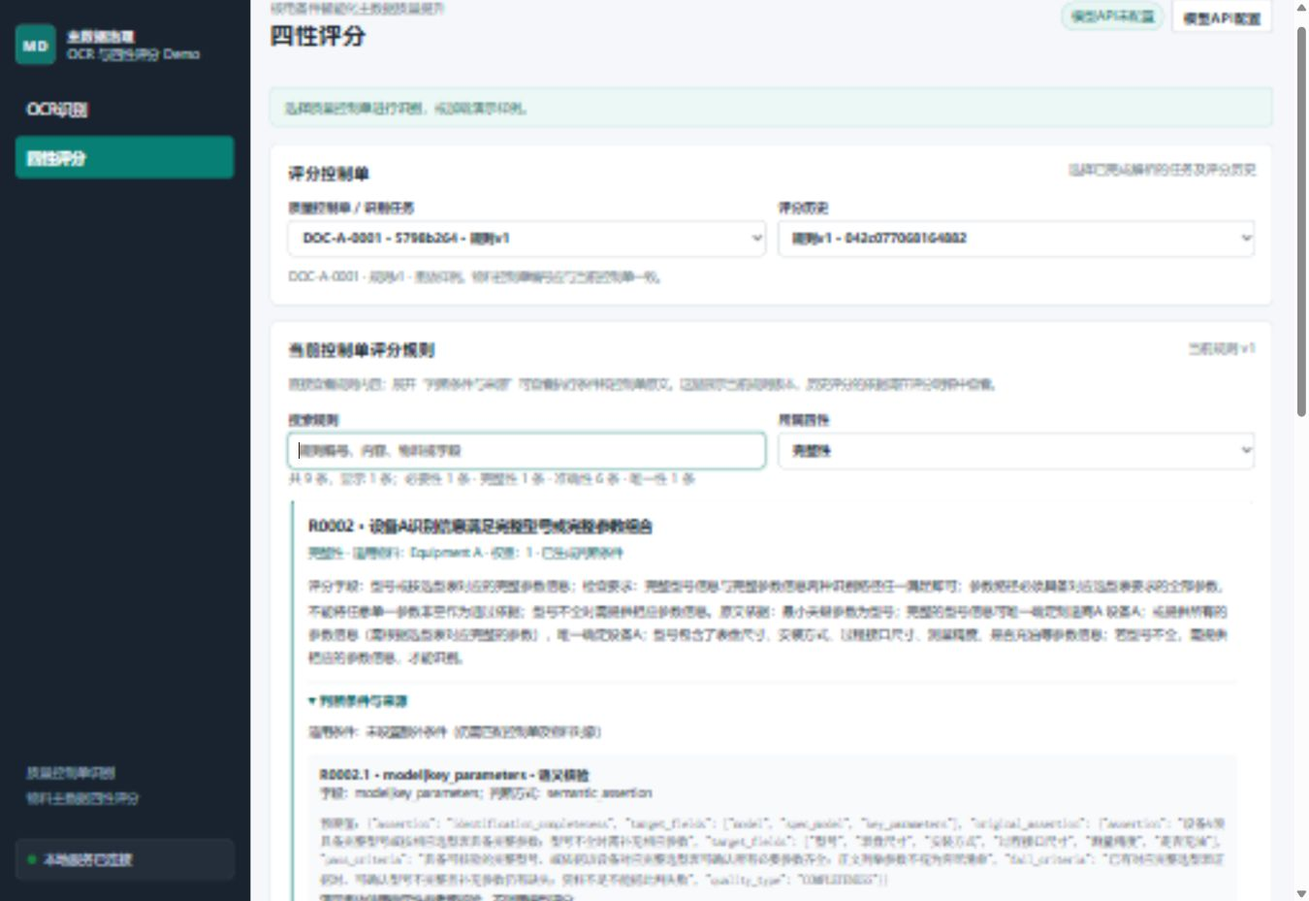
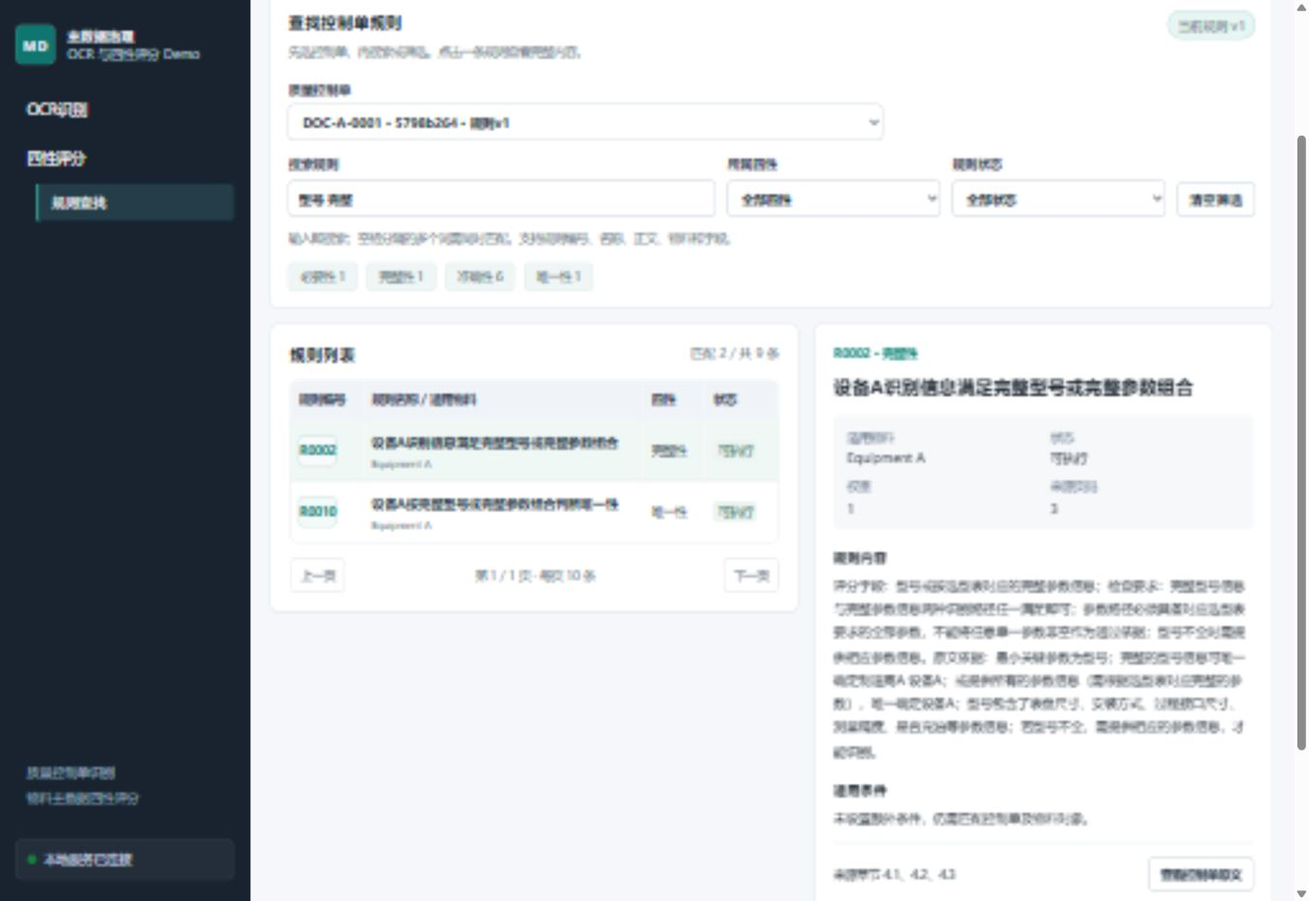
Move rule lookup into a scoring subpage with table and detail layout

diff --git a/src/mqc_qcr/static/app.js b/src/mqc_qcr/static/app.js
@@ -3,6 +3,8 @@ let active = null, current = null, results = [], pages = [], preview = '';
 let selectedArtifact = '', inputMode = 'single', polling = false, configDirty = false;
 let publicConfig = null, loadedScore = '', previousScoreCount = 0;
 let visibleRules = [], visibleChecks = [], loadedRules = '';
+let selectedRuleId = '', rulePage = 1;
+const rulePageSize = 10;
 const dimensions = ['necessity', 'completeness', 'accuracy', 'uniqueness', 'final'];
 const qualityLabels = {NECESSITY:'必要性', COMPLETENESS:'完整性', ACCURACY:'准确性', UNIQUENESS:'唯一性'};
 const states = {queued:'排队中', running:'处理中', completed:'已完成', failed:'失败', interrupted:'已中断'};
@@ -30,15 +32,21 @@ function action(id, fn) {
   });
 }
 function setView(view) {
+  if (!['ocr','score','rules'].includes(view)) view = 'ocr';
   for (const node of document.querySelectorAll('.view')) node.classList.toggle('active', node.id === 'view-' + view);
-  for (const button of document.querySelectorAll('.nav-item[data-view]')) {
+  for (const button of document.querySelectorAll('.nav-list [data-view]')) {
     const selected = button.dataset.view === view;
     button.classList.toggle('active', selected);
     if (selected) button.setAttribute('aria-current', 'page'); else button.removeAttribute('aria-current');
   }
-  $('page-title').textContent = view === 'ocr' ? 'OCR识别' : '四性评分';
+  $('page-title').textContent = {ocr:'OCR识别',score:'四性评分',rules:'四性评分 / 规则查找'}[view];
+  if (location.hash !== '#' + view) location.hash = view;
 }
-for (const button of document.querySelectorAll('.nav-item[data-view]')) button.onclick = () => setView(button.dataset.view);
+for (const button of document.querySelectorAll('.nav-list [data-view], [data-open-view]')) button.onclick = () => {
+  setView(button.dataset.view || button.dataset.openView); window.scrollTo({top:0});
+};
+window.addEventListener('hashchange', () => setView(location.hash.slice(1)));
+setView(location.hash.slice(1));
 function setInputMode(mode) {
   inputMode = mode;
   $('single-input').hidden = mode !== 'single';
@@ -118,7 +126,9 @@ action('go-score', () => {
   window.scrollTo({top:0, behavior:'smooth'});
 });
 function clearRunViews() {
-  visibleRules = []; visibleChecks = []; loadedRules = ''; renderRuleBrowsers();
+  visibleRules = []; visibleChecks = []; loadedRules = ''; selectedRuleId = ''; rulePage = 1;
+  $('rules-search').value = ''; $('rules-quality').value = ''; $('rules-status').value = '';
+  renderRuleBrowsers();
   current = null; results = []; pages = []; loadedScore = ''; previousScoreCount = 0;
   selectedArtifact = ''; $('details').replaceChildren();
   $('score-history').replaceChildren(new Option('暂无评分', ''));
@@ -135,6 +145,7 @@ async function refresh() {
   const data = await api('/api/runs');
   $('runs').replaceChildren();
   $('score-run').replaceChildren(new Option('请选择已解析的控制单', ''));
+  $('rules-run').replaceChildren(new Option('请选择已解析的控制单', ''));
   for (const run of data.runs) {
     const button = document.createElement('button');
     button.className = 'run' + (active === run.id ? ' selected' : '');
@@ -144,7 +155,7 @@ async function refresh() {
     button.append(meta);
     button.onclick = () => selectRun(run.id).catch(e => message(e.message, true));
     $('runs').append(button);
-    if (run.revision) $('score-run').add(new Option(`${run.document_id} · ${run.id.slice(0,8)} · 规则v${run.revision}`, run.id));
+    if (run.revision) for (const id of ['score-run','rules-run']) $(id).add(new Option(`${run.document_id} · ${run.id.slice(0,8)} · 规则v${run.revision}`, run.id));
   }
   if (!data.runs.length) {
     const p = document.createElement('p'); p.className = 'empty-state'; p.textContent = '尚未创建质量单解析任务'; $('runs').append(p);
@@ -152,11 +163,11 @@ async function refresh() {
   if (active) await loadRun();
 }
 action('refresh', refresh);
-$('score-run').addEventListener('change', async () => {
+for (const selector of ['score-run','rules-run']) $(selector).addEventListener('change', async () => {
   try {
-    const id = $('score-run').value;
+    const id = $(selector).value;
     if (id) await selectRun(id);
-    else { active = null; clearRunViews(); $('score-run-note').textContent = '请选择已解析的控制单。'; }
+    else { active = null; clearRunViews(); $('score-run').value = ''; $('rules-run').value = ''; $('score-run-note').textContent = '请选择已解析的控制单。'; }
   } catch (e) { message(e.message, true); }
 });
 async function loadRun() {
@@ -170,6 +181,7 @@ async function loadRun() {
   $('meta-revision').textContent = run.revision ? 'v' + run.revision : '等待生成';
   $('run-state').textContent = `任务：${run.id} · ${states[run.status] || run.status}`;
   $('score-run').value = run.revision ? rid : '';
+  $('rules-run').value = run.revision ? rid : '';
   $('score-run-note').textContent = `${run.document_id} · 规则v${run.revision} · ${run.mode === 'replay' ? '重放样例' : '模型识别'}。物料控制单编号应与当前控制单一致。`;
   if (run.status === 'failed') message(run.error?.message || '处理失败，请查看阶段错误JSON。', true);
   if (run.revision && run.artifacts.includes(`dsl-v${run.revision}.json`)) await loadVisibleRules();
@@ -350,43 +362,81 @@ function ruleText(tag, value, className = '') {
 function checksForRule(rule) {
   return visibleChecks.filter(check => (check.rule_key || check.source_rule_id) === rule.id);
 }
+function ruleStatus(rule) {
+  const checks = checksForRule(rule);
+  return !rule.enabled ? 'disabled' : !checks.length || checks.some(c => c.operator === 'UNKNOWN' || c.execution_status === 'pending_review') ? 'pending' : 'ready';
+}
+const ruleStatusLabels = {ready:'可执行', pending:'待核实', disabled:'已停用'};
 function renderRuleBrowsers() {
-  for (const prefix of ['ocr','score']) {
-    const list = $(prefix+'-rules-list'); list.replaceChildren();
-    $(prefix+'-rules-version').textContent = loadedRules ? `当前规则 v${loadedRules.split('/')[1]}` : '等待规则生成';
-    const term = $(prefix+'-rules-search').value.trim().toLowerCase(), quality = $(prefix+'-rules-quality').value;
-    const filtered = visibleRules.filter(rule => (!quality || rule.quality_type === quality) && JSON.stringify(rule).concat(JSON.stringify(checksForRule(rule))).toLowerCase().includes(term));
-    const counts = Object.entries(qualityLabels).map(([key,label]) => `${label} ${visibleRules.filter(r => r.quality_type === key).length} 条`).join(' · ');
-    $(prefix+'-rules-summary').textContent = loadedRules ? `共 ${visibleRules.length} 条，显示 ${filtered.length} 条；${counts}` : '选择已解析的控制单后自动显示规则';
-    if (!filtered.length) list.append(ruleText('p', loadedRules ? '没有符合条件的规则' : '暂无规则', 'empty-state'));
-    for (const rule of filtered) {
-      const card = document.createElement('article'); card.className = 'rule-card';
-      const heading = ruleText('h3', `${rule.id} · ${rule.rule_title}`);
-      const checks = checksForRule(rule);
-      const status = !rule.enabled ? '已停用' : !checks.length || checks.some(c => c.operator === 'UNKNOWN') ? '待核实' : '已生成判断条件';
-      card.append(heading, ruleText('p', `${qualityLabels[rule.quality_type] || '待确认分类'} · 适用物料：${rule.material_entity || '未指定'} · 权重：${rule.weight} · ${status}`, 'rule-meta'), ruleText('p', rule.rule_text, 'rule-content'));
-      const detail = document.createElement('details'); detail.className = 'rule-conditions';
-      detail.append(ruleText('summary','判断条件与来源'),ruleText('p',`适用条件：${rule.condition_text || '未设置额外条件（仍需匹配控制单及物料对象）'}`));
-      if (!checks.length) detail.append(ruleText('p',rule.enabled ? '暂无执行条件，需完成编译后核验。' : '规则已停用，不参与当前评分。'));
-      for (const check of checks) {
-        const box = document.createElement('div'); box.className = 'rule-check';
-        const expected = typeof check.expected_value === 'object' ? JSON.stringify(check.expected_value,null,2) : String(check.expected_value ?? '');
-        box.append(ruleText('strong',`${check.dsl_id} · ${fieldLabels[check.field_name] || check.field_name} · ${operatorLabels[check.operator] || check.operator}`),ruleText('p',`字段：${check.field_name}；判断方式：${check.operator}`),ruleText('pre',`预期值：${expected || '未设置'}`));
-        if (check.offline_handler) box.append(ruleText('p','演示重放使用确定性参考库核验，不调用模型评分。'));
-        if (check.semantic) box.append(ruleText('p',check.semantic));
-        detail.append(box);
-      }
-      detail.append(ruleText('p',`来源章节：${rule.source_sections.join('、') || '未标注'}；页码：${rule.source_pages.join('、') || '未标注'}`));
-      const button = ruleText('button','查看控制单原文','secondary-btn');
-      button.onclick = () => showSource({...rule,source_text:rule.rule_text}); detail.append(button);
-      card.append(detail); list.append(card);
-    }
+  const tokens = $('rules-search').value.trim().toLowerCase().split(/\s+/).filter(Boolean);
+  const quality = $('rules-quality').value, status = $('rules-status').value;
+  const filtered = visibleRules.filter(rule => {
+    const checks = checksForRule(rule);
+    const haystack = [rule.id,rule.rule_title,rule.rule_text,rule.material_entity,rule.condition_text,qualityLabels[rule.quality_type],...checks.flatMap(c => [c.field_name,fieldLabels[c.field_name],c.operator,operatorLabels[c.operator],JSON.stringify(c.expected_value)])].join(' ').toLowerCase();
+    return (!quality || rule.quality_type === quality) && (!status || ruleStatus(rule) === status) && tokens.every(term => haystack.includes(term));
+  });
+  $('rules-version').textContent = loadedRules ? `当前规则 v${loadedRules.split('/')[1]}` : '等待规则生成';
+  $('rules-counts').replaceChildren(...Object.entries(qualityLabels).map(([key,label]) => ruleText('span',`${label} ${visibleRules.filter(r => r.quality_type === key).length}`, 'rule-count')));
+  $('rules-summary').textContent = loadedRules ? `匹配 ${filtered.length} / 共 ${visibleRules.length} 条` : '请选择已解析的控制单';
+  const pageCount = Math.ceil(filtered.length / rulePageSize);
+  rulePage = Math.max(1, Math.min(rulePage,pageCount));
+  const pageRules = filtered.slice((rulePage-1)*rulePageSize, rulePage*rulePageSize);
+  if (!pageRules.some(rule => rule.id === selectedRuleId)) selectedRuleId = pageRules[0]?.id || '';
+  const body = $('rules-table').querySelector('tbody'); body.replaceChildren();
+  for (const rule of pageRules) {
+    const row = document.createElement('tr'); row.className = rule.id === selectedRuleId ? 'selected-rule' : '';
+    const idCell = document.createElement('td'), button = ruleText('button',rule.id,'text-btn');
+    button.setAttribute('aria-label',`查看规则 ${rule.id}`); button.setAttribute('aria-pressed',String(rule.id === selectedRuleId));
+    const select = () => {
+      selectedRuleId = rule.id; renderRuleBrowsers();
+      $('rules-table').querySelector('[aria-pressed="true"]').focus({preventScroll:true});
+      if (window.matchMedia('(max-width:1100px)').matches) $('rule-detail').scrollIntoView({behavior:'smooth',block:'start'});
+    };
+    button.onclick = event => { event.stopPropagation(); select(); };
+    row.onclick = select; idCell.append(button);
+    const nameCell = document.createElement('td'); nameCell.append(ruleText('strong',rule.rule_title),ruleText('small',rule.material_entity || '未指定物料'));
+    const stateCell = document.createElement('td'); stateCell.append(ruleText('span',ruleStatusLabels[ruleStatus(rule)],'rule-state '+ruleStatus(rule)));
+    row.append(idCell,nameCell,ruleText('td',qualityLabels[rule.quality_type] || '待确认'),stateCell); body.append(row);
   }
+  if (!pageRules.length) {
+    const row = document.createElement('tr'), cell = ruleText('td',loadedRules ? '没有匹配的规则，请更换关键词或清空筛选。' : '请先选择已解析的控制单。','empty-state'); cell.colSpan=4; row.append(cell); body.append(row);
+  }
+  $('rules-page').textContent = `第 ${pageCount ? rulePage : 0} / ${pageCount} 页 · 每页 ${rulePageSize} 条`;
+  $('rules-prev').disabled = rulePage <= 1; $('rules-next').disabled = rulePage >= pageCount;
+  renderRuleDetail(pageRules.find(rule => rule.id === selectedRuleId));
 }
-for (const prefix of ['ocr','score']) {
-  $(prefix+'-rules-search').addEventListener('input',renderRuleBrowsers);
-  $(prefix+'-rules-quality').addEventListener('change',renderRuleBrowsers);
+function renderRuleDetail(rule) {
+  const detail = $('rule-detail'); detail.replaceChildren();
+  if (!rule) { detail.append(ruleText('p',loadedRules ? '暂无匹配规则' : '选择控制单后，点击列表查看规则详情','empty-state')); return; }
+  detail.append(ruleText('span',`${rule.id} · ${qualityLabels[rule.quality_type]}`,'rule-detail-kicker'),ruleText('h2',rule.rule_title));
+  const meta = document.createElement('dl'); meta.className='rule-detail-meta';
+  for (const [label,value] of [['适用物料',rule.material_entity || '未指定'],['状态',ruleStatusLabels[ruleStatus(rule)]],['权重',rule.weight],['来源页码',rule.source_pages.join('、')]]) {
+    const group = document.createElement('div'); group.append(ruleText('dt',label),ruleText('dd',value));meta.append(group);
+  }
+  detail.append(meta,ruleText('h3','规则内容'),ruleText('p',rule.rule_text,'rule-content'),ruleText('h3','适用条件'),ruleText('p',rule.condition_text || '未设置额外条件，仍需匹配控制单及物料对象。','rule-content'));
+  const source = document.createElement('div'); source.className = 'rule-source-bar';
+  const sourceButton = ruleText('button','查看控制单原文','secondary-btn'); sourceButton.onclick = () => showSource({...rule,source_text:rule.rule_text});
+  source.append(ruleText('span',`来源章节 ${rule.source_sections.join('、')}`),sourceButton); detail.append(source);
+  const checks = checksForRule(rule), execution = document.createElement('details'); execution.className='rule-conditions';
+  execution.append(ruleText('summary',`判断条件（${checks.length} 项）`));
+  if (!checks.length) execution.append(ruleText('p',rule.enabled ? '暂无执行条件，需完成编译后核验。' : '已停用，不参与评分。'));
+  for (const check of checks) {
+    const box = document.createElement('div'); box.className='rule-check';
+    let expected = check.expected_value;
+    if (typeof expected === 'string') { try { expected = JSON.parse(expected); } catch {} }
+    const value = typeof expected === 'object' ? JSON.stringify(expected,null,2) : String(expected ?? '');
+    box.append(ruleText('strong',`${check.dsl_id} · ${fieldLabels[check.field_name] || check.field_name} · ${operatorLabels[check.operator] || check.operator}`),ruleText('p',`字段：${check.field_name}；判断方式：${check.operator}`),ruleText('pre',`预期值：${value || '未设置'}`));
+    if (check.offline_handler) box.append(ruleText('p','演示重放使用确定性参考库核验，不调用模型评分。'));
+    if (check.semantic) box.append(ruleText('p',check.semantic)); execution.append(box);
+  }
+  detail.append(execution);
 }
+for (const [id,event] of [['rules-search','input'],['rules-quality','change'],['rules-status','change']]) $(id).addEventListener(event,() => { rulePage=1; renderRuleBrowsers(); });
+$('rules-reset').onclick = () => { $('rules-search').value=''; $('rules-quality').value=''; $('rules-status').value=''; rulePage=1; renderRuleBrowsers(); };
+$('rules-prev').onclick = () => { rulePage--; renderRuleBrowsers(); };
+$('rules-next').onclick = () => { rulePage++; renderRuleBrowsers(); };
+renderRuleBrowsers();
+
 action('load-rules', async () => {
   if (!active || !current?.revision) throw new Error('请选择已解析的控制单。');
   const data = await api(`/api/runs/${active}/artifacts/rules-v${current.revision}.json`);

diff --git a/src/mqc_qcr/static/index.html b/src/mqc_qcr/static/index.html
@@ -8,6 +8,7 @@
     <nav class="nav-list">
       <button class="nav-item active" data-view="ocr" aria-current="page">OCR识别</button>
       <button class="nav-item" data-view="score">四性评分</button>
+      <button class="nav-subitem" data-view="rules">规则查找</button>
     </nav>
     <div class="sidebar-note">质量控制单识别<br>物料主数据四性评分</div>
     <div class="sidebar-footer"><span class="status-dot" id="service-dot"></span><span id="server-status">正在连接服务</span></div>
@@ -32,25 +33,15 @@
       <section class="panel"><div class="panel-heading"><h2>质量单任务记录</h2><button class="secondary-btn" id="refresh">刷新任务</button></div><div id="runs" class="task-list"><p class="empty-state">尚未创建质量单解析任务</p></div><p class="inline-status" id="run-state">选择任务查看识别结果</p></section>
       <div class="mqc-review-layout">
         <section class="panel mqc-pdf-preview-panel"><div class="panel-heading"><h2>控制单页图预览</h2><label class="page-picker">页码<select id="ocr-page"><option value="">等待识别</option></select></label></div><div class="mqc-pdf-preview" id="ocr-image"><span>识别后显示对应页图</span></div></section>
-        <section class="panel mqc-review-panel"><div class="panel-heading"><h2>逐页 OCR 识别结果</h2><span id="ocr-page-label">等待识别</span></div><pre id="ocr-text" class="ocr-text">尚无识别结果</pre><div class="button-row"><button class="primary-btn" id="go-score">使用当前控制单进行四性评分</button></div></section>
+        <section class="panel mqc-review-panel"><div class="panel-heading"><h2>逐页 OCR 识别结果</h2><span id="ocr-page-label">等待识别</span></div><pre id="ocr-text" class="ocr-text">尚无识别结果</pre><div class="button-row"><button class="primary-btn" id="go-score">使用当前控制单进行四性评分</button><button class="secondary-btn" data-open-view="rules">查看识别规则</button></div></section>
       </div>
-      <section class="panel rule-browser" aria-labelledby="ocr-rules-title">
-        <div class="panel-heading"><h2 id="ocr-rules-title">识别出的评分规则</h2><span id="ocr-rules-version">等待选择控制单</span></div>
-        <p class="hint">直接查看规则内容；展开“判断条件与来源”可查看执行条件和控制单原文。这里展示当前规则版本，历史评分的依据请在评分明细中查看。</p>
-        <div class="query-row"><label>搜索规则<input id="ocr-rules-search" placeholder="规则编号、内容、物料或字段"></label><label>所属四性<select id="ocr-rules-quality"><option value="">全部规则</option><option value="NECESSITY">必要性</option><option value="COMPLETENESS">完整性</option><option value="ACCURACY">准确性</option><option value="UNIQUENESS">唯一性</option><option value="UNKNOWN">待确认分类</option></select></label></div>
-        <p id="ocr-rules-summary" class="inline-status" aria-live="polite">选择已解析的控制单后自动显示规则</p><div id="ocr-rules-list" class="rule-list"></div>
-      </section>
+
       <details class="panel" id="json-panel"><summary>识别结果与阶段 JSON</summary><div class="query-row"><label>阶段产物<select id="artifact"><option value="">选择任务后查看</option></select></label><label>查找内容<input id="search" placeholder="规则编号、页码或关键字"></label></div><div class="button-row"><a id="download" class="text-btn" hidden>下载当前 JSON</a><a id="export" class="text-btn" hidden>下载全部 JSON</a><span id="search-count" class="inline-status"></span></div><pre id="preview" class="json-preview">{ "status": "ready" }</pre></details>
     </section>
 
     <section class="view" id="view-score">
-      <section class="panel"><div class="panel-heading"><h2>评分控制单</h2><span>选择已完成解析的任务及评分历史</span></div><div class="form-grid"><label>质量控制单 / 识别任务<select id="score-run"><option value="">请选择已解析的控制单</option></select></label><label>评分历史<select id="score-history"><option value="">暂无评分</option></select></label></div><p id="score-run-note" class="hint">请先完成OCR解析，或加载演示控制单。</p></section>
-      <section class="panel rule-browser" aria-labelledby="score-rules-title">
-        <div class="panel-heading"><h2 id="score-rules-title">当前控制单评分规则</h2><span id="score-rules-version">等待选择控制单</span></div>
-        <p class="hint">直接查看规则内容；展开“判断条件与来源”可查看执行条件和控制单原文。这里展示当前规则版本，历史评分的依据请在评分明细中查看。</p>
-        <div class="query-row"><label>搜索规则<input id="score-rules-search" placeholder="规则编号、内容、物料或字段"></label><label>所属四性<select id="score-rules-quality"><option value="">全部规则</option><option value="NECESSITY">必要性</option><option value="COMPLETENESS">完整性</option><option value="ACCURACY">准确性</option><option value="UNIQUENESS">唯一性</option><option value="UNKNOWN">待确认分类</option></select></label></div>
-        <p id="score-rules-summary" class="inline-status" aria-live="polite">选择已解析的控制单后自动显示规则</p><div id="score-rules-list" class="rule-list"></div>
-      </section>
+      <section class="panel"><div class="panel-heading"><h2>评分控制单</h2><button class="secondary-btn" data-open-view="rules">查找评分规则 →</button></div><div class="form-grid"><label>质量控制单 / 识别任务<select id="score-run"><option value="">请选择已解析的控制单</option></select></label><label>评分历史<select id="score-history"><option value="">暂无评分</option></select></label></div><p id="score-run-note" class="hint">请先完成OCR解析，或加载演示控制单。</p></section>
+
       <section class="panel form-panel"><div class="panel-heading"><h2>物料数据评分</h2><span>必要性、完整性、准确性、唯一性</span></div>
         <div class="subpage-tabs" role="tablist" aria-label="评分输入方式"><button class="subpage-tab active" role="tab" aria-selected="true" data-input="single">单条物料</button><button class="subpage-tab" role="tab" aria-selected="false" data-input="batch">JSON 批量物料</button></div>
         <div id="single-input" class="form-grid material-fields">
@@ -64,6 +55,25 @@
         <div class="button-row"><button class="primary-btn" id="score">开始四性评分</button><span id="material-count" class="inline-status">输入物料后手动发起评分</span></div><p class="hint">通过得分；失败或待核实计0分；明确不适用的规则不进分母。修改物料或规则后需手动重新评分。</p>
       </section>
       <section class="panel"><div class="panel-heading"><h2>四性评分查询</h2><a id="score-download" class="text-btn" hidden>下载评分 JSON</a></div><div class="score-search portable-search"><label>物料编码 / 记录编号<input id="filter-text" placeholder="输入关键字"></label><label>筛选维度<select id="filter-dimension"><option value="final">综合评分</option><option value="necessity">必要性</option><option value="completeness">完整性</option><option value="accuracy">准确性</option><option value="uniqueness">唯一性</option></select></label><label>阈值条件<select id="filter-operator"><option value="">不启用</option><option value="below">低于阈值</option><option value="above">高于阈值</option></select></label><label>阈值分数<input id="filter-value" type="number" min="0" max="100" value="80"></label><button class="primary-btn" id="filter-score">查询评分</button></div><p class="inline-status" id="score-summary">暂无评分结果</p><div class="table-wrap"><table id="scores"><thead><tr><th>记录编号</th><th>物料编码</th><th>必要性</th><th>完整性</th><th>准确性</th><th>唯一性</th><th>综合评分</th><th>操作</th></tr></thead><tbody><tr><td colspan="8" class="empty-state">请选择任务并手动评分</td></tr></tbody></table></div><div id="details"></div></section>
+
+    </section>
+    <section class="view" id="view-rules">
+      <section class="panel rules-toolbar">
+        <div class="panel-heading"><div><h2>查找控制单规则</h2><p class="hint">先选控制单，再搜索或筛选。点击一条规则查看完整内容。</p></div><span class="pill" id="rules-version">等待选择控制单</span></div>
+        <label class="rules-document">质量控制单<select id="rules-run"><option value="">请选择已解析的控制单</option></select></label>
+        <div class="rules-filters"><label>搜索规则<input id="rules-search" type="search" placeholder="例如：型号 完整，或 R0002"></label><label>所属四性<select id="rules-quality"><option value="">全部四性</option><option value="NECESSITY">必要性</option><option value="COMPLETENESS">完整性</option><option value="ACCURACY">准确性</option><option value="UNIQUENESS">唯一性</option></select></label><label>规则状态<select id="rules-status"><option value="">全部状态</option><option value="ready">可执行</option><option value="pending">待核实</option><option value="disabled">已停用</option></select></label><button class="secondary-btn" id="rules-reset">清空筛选</button></div>
+        <p class="hint">输入即搜索；空格分隔的多个词需同时匹配。支持规则编号、名称、正文、物料和字段。</p>
+        <div id="rules-counts" class="rules-counts"></div>
+      </section>
+      <div class="rules-workspace">
+        <section class="panel rules-results" aria-label="规则查找结果">
+          <div class="panel-heading"><h2>规则列表</h2><span id="rules-summary" aria-live="polite">请选择控制单</span></div>
+          <div class="table-wrap rules-table-wrap"><table id="rules-table"><thead><tr><th>规则编号</th><th>规则名称 / 适用物料</th><th>四性</th><th>状态</th></tr></thead><tbody></tbody></table></div>
+          <div class="rules-pagination"><button class="secondary-btn" id="rules-prev">上一页</button><span id="rules-page">第 0 / 0 页</span><button class="secondary-btn" id="rules-next">下一页</button></div>
+        </section>
+        <section class="panel rules-detail" aria-label="规则详情"><div id="rule-detail"><p class="empty-state">选择控制单后，点击左侧规则查看详情</p></div></section>
+      </div>
+      <p class="hint">这里展示当前规则版本。查看历史评分使用的规则，请返回评分页打开对应记录的评分明细。</p>
       <details class="panel" id="rule-panel"><summary>当前控制单评分规则维护</summary><p class="hint">在当前评分任务内增删改规则。修改语义时同步修改checks，或设为[]让文本模型重新编译。保存自动更新DSL，历史评分保持不变。</p><div class="button-row"><button class="secondary-btn" id="load-rules">加载当前规则</button><button class="primary-btn" id="save-rules">保存规则并更新 DSL</button></div><textarea id="rules-editor" class="json-editor" spellcheck="false" aria-label="规则JSON编辑器">[]</textarea></details>
     </section>
   </main>

diff --git a/src/mqc_qcr/static/style.css b/src/mqc_qcr/static/style.css
@@ -5,4 +5,11 @@ body{font-size:14px}.sidebar-note{font-size:13px;line-height:1.9;color:#99aabd;p
 @media(max-width:1080px){.mqc-review-layout{grid-template-columns:1fr 1fr}.portable-search{grid-template-columns:1fr 1fr}.app-shell{grid-template-columns:220px minmax(0,1fr)}}
 @media(max-width:760px){.app-shell{display:block}.sidebar{position:static;height:auto;padding:16px;gap:12px}.nav-list{display:flex}.nav-item{width:50%}.sidebar-note,.sidebar-footer{display:none}.main{padding:16px}.topbar{flex-wrap:wrap}.top-actions{justify-content:flex-start}.mqc-sheet-meta{grid-template-columns:1fr 1fr}.mqc-review-layout,.config-grid{grid-template-columns:1fr}.form-grid,.query-row{grid-template-columns:1fr}.topbar h1{font-size:23px}.mqc-pdf-preview{height:330px;min-height:330px}.task-list{grid-template-columns:1fr}.portable-search{grid-template-columns:1fr 1fr}.panel-heading{flex-wrap:wrap}.panel-heading span{text-align:left}dialog{padding:16px}.file-import{max-width:100%}}
 
-.rule-list{display:grid;gap:12px;max-height:620px;overflow:auto;padding:2px}.rule-card{border:1px solid var(--line);border-left:3px solid var(--teal);border-radius:6px;padding:16px;min-width:0}.rule-card h3{margin:0 0 8px;font-size:15px}.rule-meta{color:var(--teal-dark);font-size:12px;line-height:1.8}.rule-content{font-size:13px;line-height:1.9;white-space:pre-wrap;overflow-wrap:anywhere}.rule-conditions{border-top:1px solid var(--line);padding-top:10px;margin-top:12px}.rule-conditions summary{font-size:13px;color:var(--teal-dark)}.rule-conditions p{font-size:12px;line-height:1.8;overflow-wrap:anywhere}.rule-check{padding:12px;background:var(--surface-soft);border-radius:6px;margin-bottom:8px}.rule-check strong{font-size:13px}.rule-check pre{white-space:pre-wrap;overflow-wrap:anywhere;font-size:12px;line-height:1.6;margin-bottom:0}
+
+/* Rule lookup is a scoring subpage; long content stays in the detail pane. */
+.nav-subitem{display:block;width:calc(100% - 22px);border:0;border-left:1px solid #485765;background:transparent;color:#b7c9d7;text-align:left;margin:0 0 6px 22px;padding:10px 14px;border-radius:0 5px 5px 0;font:inherit;cursor:pointer}.nav-subitem.active{background:#243d48;border-left:3px solid #35b7a7;color:#fff}.nav-subitem:hover{background:#243d48}
+.rules-toolbar .panel-heading{align-items:flex-start}.rules-toolbar h2{margin:0}.rules-document{display:grid;gap:8px;margin-top:18px;max-width:620px;font-size:13px}.rules-filters{display:grid;grid-template-columns:minmax(220px,2fr) 1fr 1fr auto;gap:12px;align-items:end;margin-top:16px}.rules-filters label{display:grid;gap:8px;font-size:13px}.rules-counts{display:flex;flex-wrap:wrap;gap:10px;margin-top:16px}.rule-count{background:#f0f6f6;border:1px solid #dce9e7;color:#42665e;padding:6px 12px;border-radius:5px;font-size:12px}
+.rules-workspace{display:grid;grid-template-columns:minmax(0,1.15fr) minmax(0,1fr);gap:16px;align-items:start}.rules-results,.rules-detail{padding:20px}.rules-table-wrap{max-height:650px}.rules-table-wrap table{min-width:0;width:100%;table-layout:fixed}.rules-table-wrap th:nth-child(1){width:76px}.rules-table-wrap th:nth-child(3){width:64px}.rules-table-wrap th:nth-child(4){width:76px}.rules-table-wrap td,.rules-table-wrap th{padding:12px 8px;white-space:normal;overflow-wrap:anywhere;font-size:12px}.rules-table-wrap td{cursor:pointer}.rules-table-wrap td strong{font-size:13px;font-weight:600;line-height:1.6;display:block}.rules-table-wrap td small{display:block;color:var(--muted);margin-top:5px}.rules-table-wrap tr.selected-rule td{background:#e9f6f2}.rules-table-wrap tr:hover td{background:#f0f8f6}.rules-table-wrap button{font-size:12px;padding:0}.rules-pagination{display:flex;align-items:center;justify-content:space-between;gap:8px;margin-top:16px;font-size:12px;color:var(--muted)}.rules-pagination button{padding:8px 10px}.rule-state{display:inline-block;padding:3px 5px;border-radius:4px;white-space:nowrap;background:#edf4f2;color:#267665}.rule-state.pending{background:#fff3db;color:#90691d}.rule-state.disabled{background:#edf0f3;color:#647283}
+.rules-detail{position:sticky;top:16px;max-height:calc(100vh - 32px);overflow:auto}.rule-detail-kicker{font-size:12px;color:var(--teal);font-weight:600}.rules-detail h2{font-size:19px;line-height:1.6;margin:10px 0 16px}.rules-detail h3{font-size:14px;margin:20px 0 8px}.rule-detail-meta{display:grid;grid-template-columns:1fr 1fr;gap:14px;background:#f6f8fa;border-radius:6px;padding:14px}.rule-detail-meta dt{font-size:12px;color:var(--muted);margin-bottom:5px}.rule-detail-meta dd{font-size:13px;margin:0;overflow-wrap:anywhere}.rule-content{font-size:13px;line-height:1.9;white-space:pre-wrap;overflow-wrap:anywhere}.rule-source-bar{border-top:1px solid var(--line);padding-top:14px;display:flex;gap:10px;align-items:center;justify-content:space-between;font-size:12px;flex-wrap:wrap}.rule-conditions{border-top:1px solid var(--line);padding-top:14px;margin-top:18px}.rule-conditions summary{font-size:13px;color:var(--teal-dark)}.rule-conditions p{font-size:12px;line-height:1.8;overflow-wrap:anywhere}.rule-check{padding:12px;background:var(--surface-soft);border-radius:6px;margin:12px 0}.rule-check strong{font-size:13px}.rule-check pre{white-space:pre-wrap;overflow-wrap:anywhere;font-size:12px;line-height:1.6;margin-bottom:0}
+@media(max-width:1100px){.rules-workspace{grid-template-columns:1fr}.rules-detail{position:static;max-height:none}.rules-filters{grid-template-columns:1fr 1fr}.rules-table-wrap{max-height:440px}}
+@media(max-width:760px){.nav-list{flex-wrap:wrap}.nav-subitem{margin:0 0 0 auto;width:50%;box-sizing:border-box}.rules-filters{grid-template-columns:1fr 1fr}.rules-filters label:first-child{grid-column:1/-1}.rules-filters>button{grid-column:1/-1}.rules-pagination{flex-wrap:wrap}.rules-results,.rules-detail{padding:14px}.rules-table-wrap th:nth-child(1){width:62px}.rules-table-wrap th:nth-child(3){width:48px}.rules-table-wrap th:nth-child(4){width:60px}.rules-table-wrap td,.rules-table-wrap th{padding:10px 4px}}

diff --git a/docs/VALIDATION.md b/docs/VALIDATION.md
@@ -42,3 +42,9 @@
 ## 前端规则可读展示（2026-11-07）
 
 两个现有页面均自动展示当前控制单规则，无需打开JSON。使用已有重放任务验证：9条规则关联13项DSL检查（兼容重放rule_key及模型编译source_rule_id）；完整性筛选1条；搜索R0010返回唯一性规则；清空任务后旧规则清空；原文按钮正确打开第3页及4.1/4.2/4.3章节说明。桌面与390px窄屏均无页面横向溢出，浏览器控制台无错误，node --check通过。预览见demo-rules-preview.jpg。后端计分逻辑未修改，本次未重复运行原19项后端测试。
+
+## 规则查找子页面与布局优化（2026-11-07）
+
+后续按用户要求，将上文的双页长卡片改为四性评分下的独立子页面`#rules`。OCR/评分页保留快捷入口，规则JSON维护迁移到规则查找页。桌面为规则表格与详情双栏，窄屏上下排列。
+
+浏览器验证：直接进入及刷新`#rules`正常；当前任务与评分页同步；“型号 完整”同时匹配2/9条；待核实筛选返回0条时详情清空；清空筛选恢复9条；点击R0010正确显示唯一性规则及第3页、4.2章节来源。1365px与390px布局无页面横向溢出，窄屏点击可定位到详情，控制台无错误。另以25条内存规则运行前端渲染逻辑，验证每页10条、末页5条、多关键词AND、待核实/停用筛选及无结果选择清空。JavaScript语法检查、HTML ID唯一性与引用完整性检查通过。未修改后端计分逻辑，未重新运行后端测试。demo-rules-preview.jpg已更新为子页面布局。
